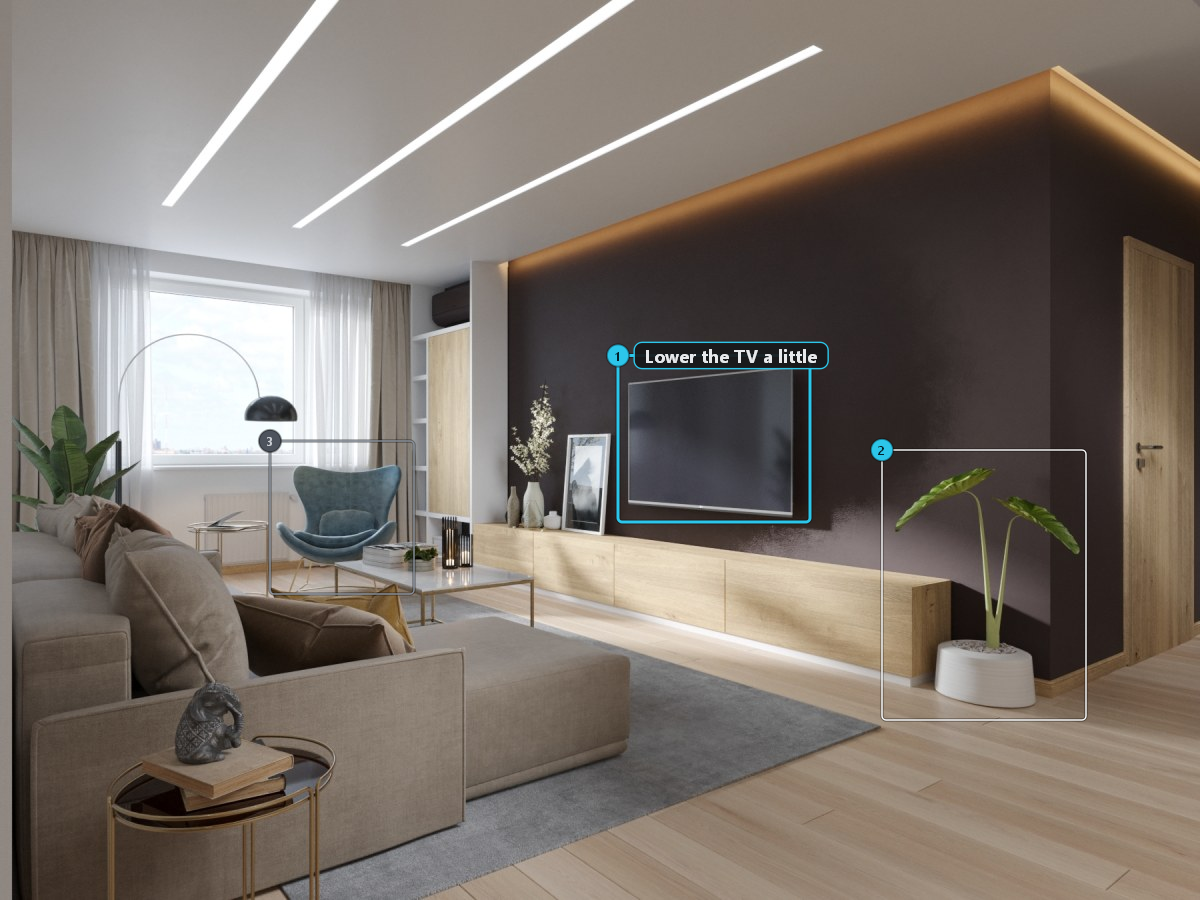
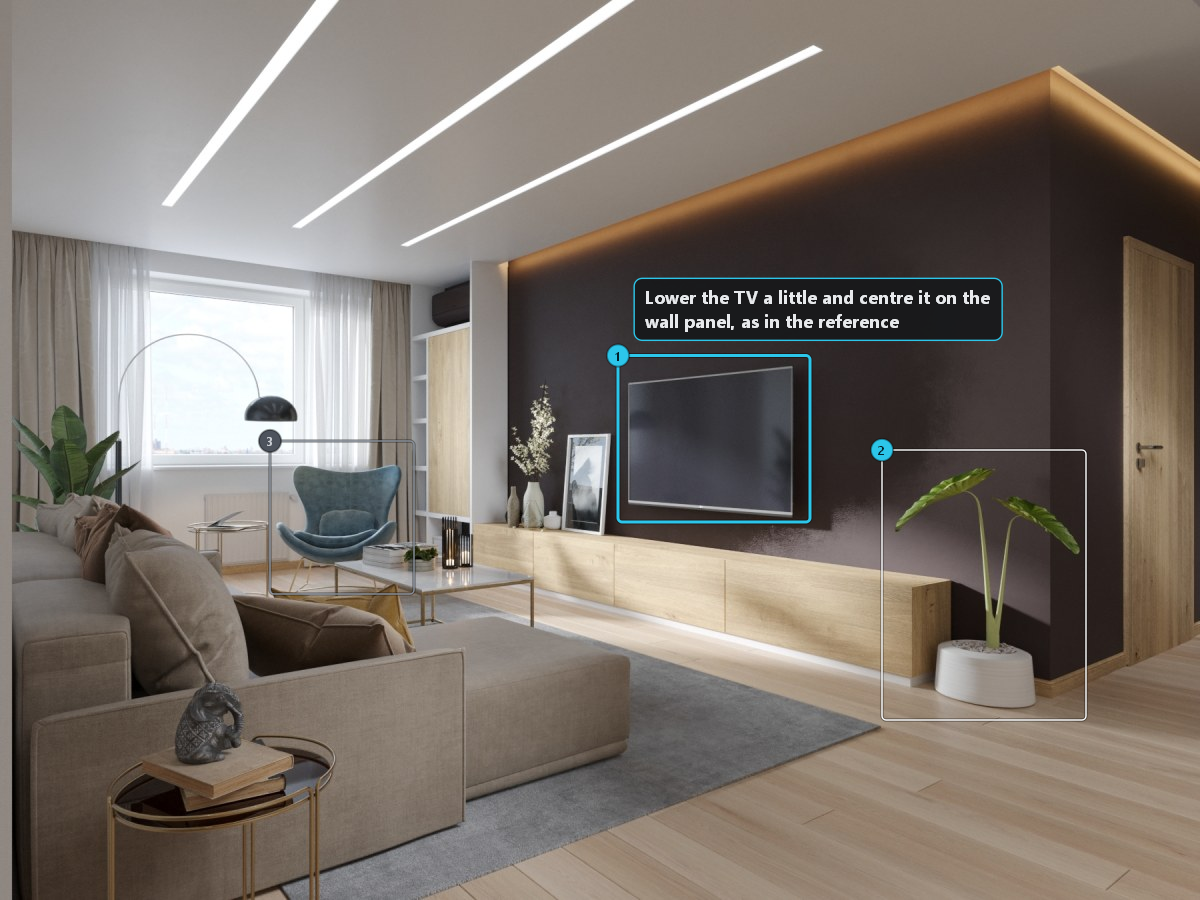
Tests refuse to run in an open 3ds Max; screenshots of a0.005
test_backdrop.py and make_shots.py reset the scene, so they stop at once
unless 3ds Max runs non-interactively (3dsmaxbatch). The README
screenshots are rendered again: the eye on the cards and the comment
text as a block over the viewport.

Changed region(s): [[0.5242, 0.28, 0.8633, 0.4356]]

diff --git a/tools/shots/make_shots.py b/tools/shots/make_shots.py
@@ -18,6 +18,12 @@ except ImportError:
 
 from pymxs import runtime as rt
 
+# The scene is reset: never in a 3ds Max someone is working in.
+# maxOps.isInNonInteractiveMode() is true under 3dsmaxbatch (2024 and 2026).
+if not rt.maxOps.isInNonInteractiveMode():
+    raise RuntimeError("make_shots.py resets the scene: run it with tools/make_shots.ps1, "
+                       "not in an open 3ds Max")
+
 ROOT = os.environ["BD_ROOT"]
 SRC = os.path.join(ROOT, "src", "backdrop.py")
 PHOTOS = os.path.join(ROOT, "tools", "shots", "images")
@@ -44,7 +50,8 @@ Content: {text}
 """
 # Comments on the first render (living room: TV wall, plant in a pot, armchair).
 FIRST = [
-    (0.515, 0.395, 0.160, 0.185, "Emily R.", "Lower the TV a little"),
+    (0.515, 0.395, 0.160, 0.185, "Emily R.",
+     "Lower the TV a little and centre it on the wall panel, as in the reference"),
     (0.735, 0.500, 0.170, 0.300, "Emily R.", "Move the plant closer to the wall"),
     (0.225, 0.490, 0.120, 0.170, "Marc D.", "Warmer fabric on the armchair"),
 ]

diff --git a/tests/test_backdrop.py b/tests/test_backdrop.py
@@ -20,6 +20,12 @@ except ImportError:
 
 from pymxs import runtime as rt
 
+# The checks reset and load scenes: never in a 3ds Max someone is working in.
+# maxOps.isInNonInteractiveMode() is true under 3dsmaxbatch (2024 and 2026).
+if not rt.maxOps.isInNonInteractiveMode():
+    raise RuntimeError("test_backdrop.py resets the scene: run it with tests/run_tests.ps1, "
+                       "not in an open 3ds Max")
+
 SRC = os.environ["BD_SRC"]
 OUT = os.environ["BD_OUT"]
 YEAR = int(list(rt.maxVersion())[7])
